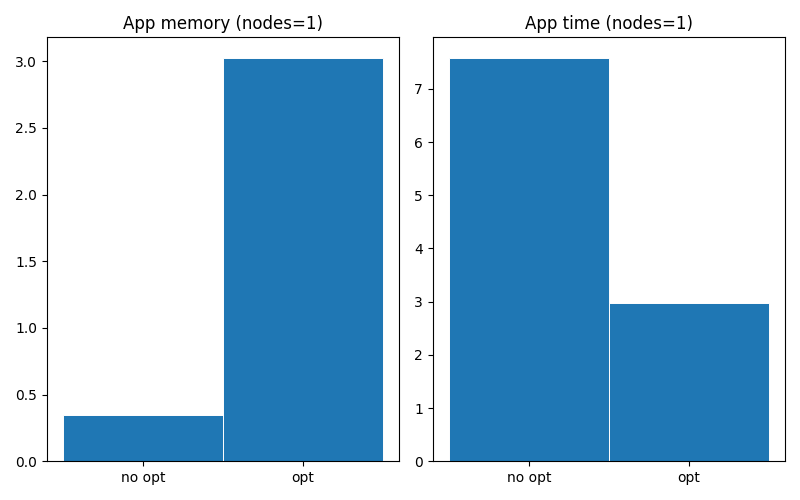
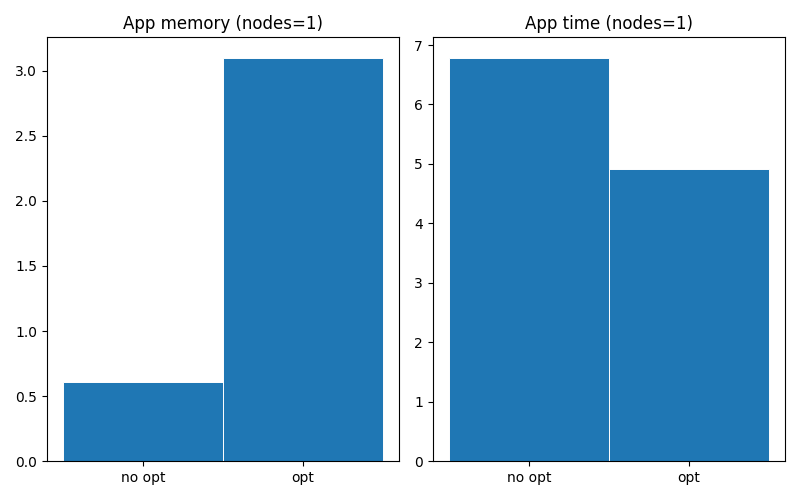
update lab2

diff --git a/lab2/src/spark_app.py b/lab2/src/spark_app.py
@@ -115,6 +115,7 @@ def main(data_path: str, n_nodes: int):
     spark = (
         SparkSession.builder
         .appName(f'SalaryAnalysis_{n_nodes}nodes')
+        .config("spark.driver.memory", "10g")
         .getOrCreate()
     )
     
